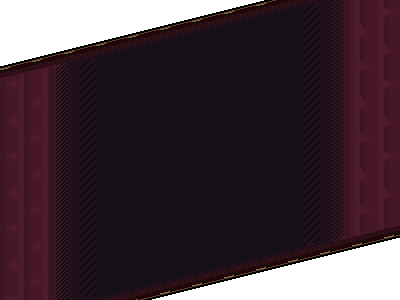
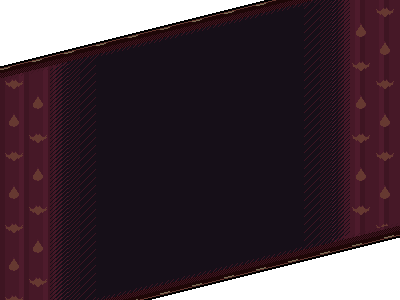
カットイン背景の雫とコウモリを1段明るくする
柄の色を #4E1B2C から #663931 に。形と帯の型は変えない。
見本の出し先を v5_step_up にし、CUTIN_REVIEW_DIR に普通のパスを渡せるようにした。

Claude-Session: https://claude.ai/code/session_01Kb1kx7ve5BkPCrNyZgEna8

diff --git a/tools/CutinPixelArt/README.md b/tools/CutinPixelArt/README.md
@@ -15,7 +15,7 @@ npm run verify
 ```
 
 `generate` は `Assets/Resources/UI/Cutin/gothic_band.png` を上書きし、比較画像と合成見本を
-`C:/Unity/km-docs/screenshots/20261020/cutin_pixel_bg/v4_bat_blood/` に出す。
+`C:/Unity/km-docs/screenshots/20261020/cutin_pixel_bg/v5_step_up/` に出す。
 別の見本出力先にする場合は `CUTIN_REVIEW_DIR` に絶対パスを設定する。
 今回の実行ではネットワーク取得をせず、同一バージョンの依存一式を `RoomPixelArt/node_modules/` からコピーした。
 `node_modules/` はGit対象外。バージョンと完全性情報は `package-lock.json` に固定。
@@ -41,8 +41,9 @@ Image-to-Pixelの同梱ライセンスは `LICENSE.image-to-pixel.txt`。
 
 - 左右2列、横24px・縦36px間隔。隣の列は縦18pxずらす。行ごとに雫とコウモリを交互にする。
 - コウモリ18×10px（2倍表示36×20単位）、雫10×14px（同20×28単位）。
-- 布は `#3E1522` / `#461827` / `#4E1B2C`。柄は `#4E1B2C`。
-  黒い輪郭・目・光沢は付けない。明るいひだと同色になる部分は布へ溶け込ませる。
+- 布は `#3E1522` / `#461827` / `#4E1B2C`。柄は `#663931`（布の明るいひだより1段明るい）。
+  最初の版（v4）は柄も `#4E1B2C` だったが、薄すぎたので 2026-10-20 に1段上げた。
+  黒い輪郭・目・光沢は付けない。
 - 全体の可視色は従来と同じ8色:
   `#000000` `#160F18` `#1E0707` `#3E1522` `#461827` `#4E1B2C` `#663931` `#786E55`。
   追加の色はない。中央は従来どおり無地。
